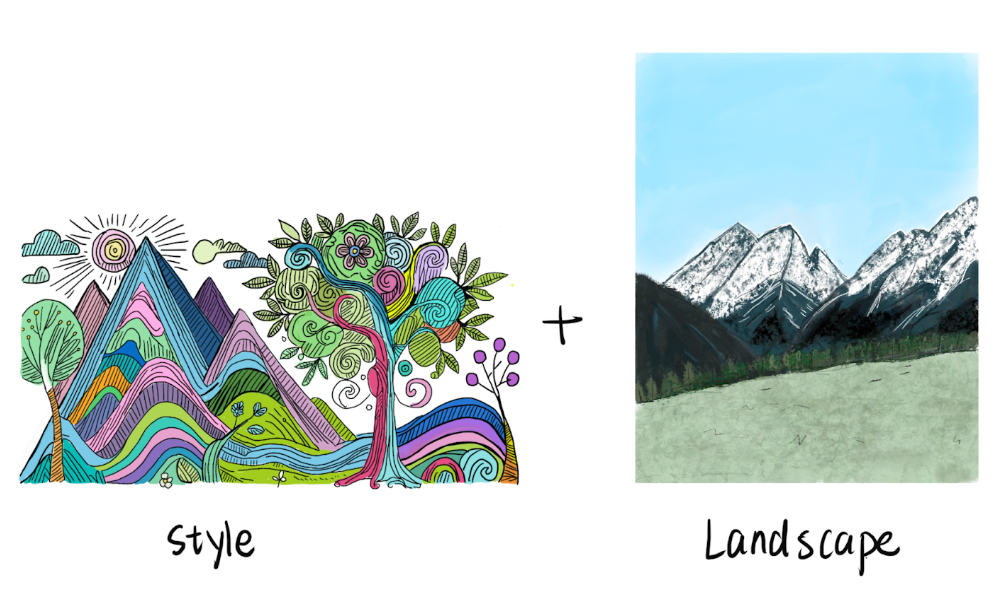
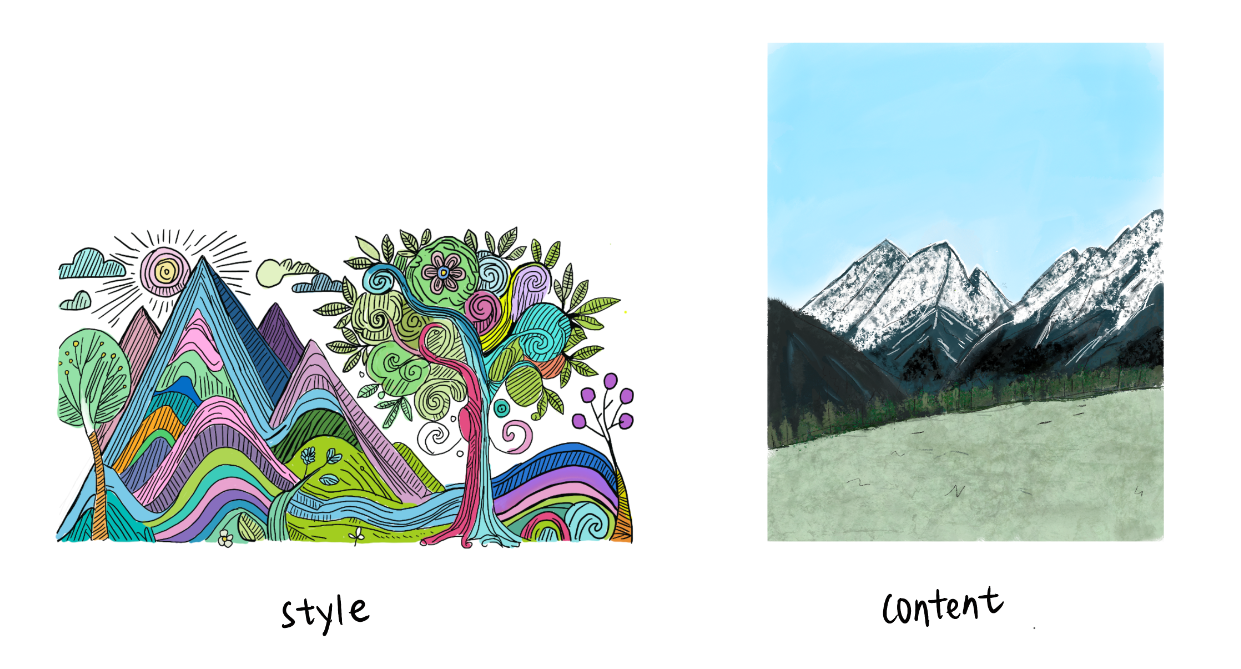
Fixed images, data structure, and confusing words from conversation. Also deleted most unused components.

diff --git a/src/components/tutorial/TTI/TTILiv1.tsx b/src/components/tutorial/TTI/TTILiv1.tsx
@@ -1,74 +1,18 @@
-import React, { useState } from 'react';
+import React from 'react';
 import Image from 'next/image';
-import livingRoomImg from '@/text-to-image-slides/Living room image/living room 1/LivingRoom1.png';  // Adjust the path to your image
+import livingRooms from '@/text-to-image-images/living-rooms.png';
 
-interface PopupData {
-    x: number;
-    y: number;
-    text: string;
-}
 
-const TTILiv1: React.FC = () => {
-    const [visiblePopups, setVisiblePopups] = useState<PopupData[]>([]);
-    const [showSkip, setShowSkip] = useState<boolean>(false);
-
-    const popups: PopupData[] = [
-        { x: 50, y: 52, text: 'Sofa: Shape - Rectangular with round edges, Color - Beige' },
-        { x: 52, y: 75, text: 'Coffee Table: Shape - Oval, Color - Neutral' },
-        { x: 38, y: 85, text: 'Rug: Shape - Rectangular, Color - Cream' },
-    ];
-
-    const handleAreaClick = (popup: PopupData) => {
-        if (!visiblePopups.includes(popup)) {
-            setVisiblePopups((prev) => [...prev, popup]);
-            setShowSkip(true);
-        }
-    };
-
-    const handleShowAll = () => {
-        setVisiblePopups(popups);
-        setShowSkip(true);
-    };
-
+const FeatureImage: React.FC = () => {
     return (
-        <div className="relative w-full max-w-4xl mx-auto mt-8 mb-8 border-4 border-black bg-white p-4 rounded-lg shadow-lg flex flex-col items-center">
-            <h2 className="text-2xl font-bold m-2 text-center">Click on the red dots to learn more about each living room item:</h2>
-            <div className="flex justify-center">
-                <Image src={livingRoomImg} alt="Living Room" width={500} height={500}/>
-            </div>
-
-            {/* Clickable Dots */}
-            {popups.map((popup, index) => (
-                <div
-                    key={index}
-                    className="absolute w-4 h-4 bg-red-500 rounded-full cursor-pointer"
-                    style={{ top: `${popup.y}%`, left: `${popup.x}%`, transform: 'translate(-50%, -50%)' }}
-                    onClick={() => handleAreaClick(popup)}
-                ></div>
-            ))}
-
-            {/* Popups */}
-            {visiblePopups.map((popup, index) => (
-                <div
-                    key={index}
-                    className="absolute bg-white border-2 border-black p-2 rounded-lg shadow-lg"
-                    style={{ top: `${popup.y}%`, left: `${popup.x}%`, transform: 'translate(-50%, -50%)' }}
-                >
-                    {popup.text}
+        <div className="flex flex-col items-center justify-center mt-8 mb-8 w-full max-w-4xl">
+            <div className="mockup-window border-4 border-black bg-white p-4 rounded-lg shadow-lg w-full overflow-hidden">
+                <div className="flex justify-center items-center h-full">
+                    <Image src={livingRooms} alt="Feature" className="rounded-lg" width={700} height={700} />
                 </div>
-            ))}
-
-            {/* Show All Button */}
-            {!showSkip && (
-                <button
-                    onClick={handleShowAll}
-                    className="absolute bottom-4 right-4 px-4 py-2 bg-blue-500 text-white rounded hover:bg-blue-700"
-                >
-                    Show All
-                </button>
-            )}
+            </div>
         </div>
     );
 };
 
-export default TTILiv1;
+export default FeatureImage;

diff --git a/src/components/tutorial/TTI/FeatureImage.tsx b/src/components/tutorial/TTI/FeatureImage.tsx
@@ -1,6 +1,6 @@
 import React from 'react';
 import Image from 'next/image';
-import featureImage from '@/images/feature-image.png';
+import featureImage from '@/text-to-image-images/feature-image.png';
 
 interface FeatureImageProps {
     onImageGenerated: () => void;
@@ -11,7 +11,7 @@ const FeatureImage: React.FC<FeatureImageProps> = ({ onImageGenerated }) => {
         <div className="flex flex-col items-center justify-center mt-8 mb-8 w-full max-w-4xl">
             <div className="mockup-window border-4 border-black bg-white p-4 rounded-lg shadow-lg w-full overflow-hidden">
                 <div className="flex justify-center items-center h-full">
-                    <Image src={featureImage} alt="Feature" className="rounded-lg" width={800} height={800} />
+                    <Image src={featureImage} alt="Feature" className="rounded-lg" width={700} height={700} />
                 </div>
             </div>
         </div>

diff --git a/src/components/tutorial/TTI/TTIBox3.tsx b/src/components/tutorial/TTI/TTIBox3.tsx
@@ -3,9 +3,9 @@ import Image from 'next/image';
 import { motion } from 'framer-motion';
 
 // Import the images
-import sofa_dog1 from '@/text-to-image-slides/Dogs/sofa_dog1.png';
-import sofa_dog2 from '@/text-to-image-slides/Dogs/sofa_dog2.png';
-import sofa_dog3 from '@/text-to-image-slides/Dogs/sofa_dog3.png';
+import sofa_dog1 from '@/text-to-image-images/sofa_dog1.png';
+import sofa_dog2 from '@/text-to-image-images/sofa_dog2.png';
+import sofa_dog3 from '@/text-to-image-images/sofa_dog3.png';
 
 interface TTIBox3Props {
     onImageGenerated: () => void;

diff --git a/src/components/tutorial/TTI/CompareImages.tsx b/src/components/tutorial/TTI/CompareImages.tsx
@@ -1,7 +1,7 @@
 import React from 'react';
 import Image from 'next/image';
-import originalDog from '@/text-to-image-slides/Dogs/Interaction1.png';
-import complexDog from '@/text-to-image-slides/Dogs/Interaction2.png';
+import originalDog from '@/text-to-image-images/Interaction1.png';
+import complexDog from '@/text-to-image-images/Interaction2.png';
 
 interface CompareImagesProps {
     onImageGenerated: () => void;

diff --git a/src/components/tutorial/TTI/TTIBox.tsx b/src/components/tutorial/TTI/TTIBox.tsx
@@ -1,6 +1,6 @@
 import React, { useState } from 'react';
 import Image from 'next/image';
-import generatedImg from '@/text-to-image-slides/Dogs/Interaction1.png';
+import generatedImg from '@/text-to-image-images/Interaction1.png';
 import { TypeAnimation } from 'react-type-animation';
 
 interface TTIBoxProps {

diff --git a/src/components/tutorial/TTI/TTIBox2.tsx b/src/components/tutorial/TTI/TTIBox2.tsx
@@ -1,6 +1,6 @@
 import React, { useState, useEffect } from 'react';
 import Image from 'next/image';
-import generatedImg from '@/text-to-image-slides/Dogs/Interaction2.png';
+import generatedImg from '@/text-to-image-images/Interaction2.png';
 import 'animate.css';
 
 interface TTIBox2Props {
